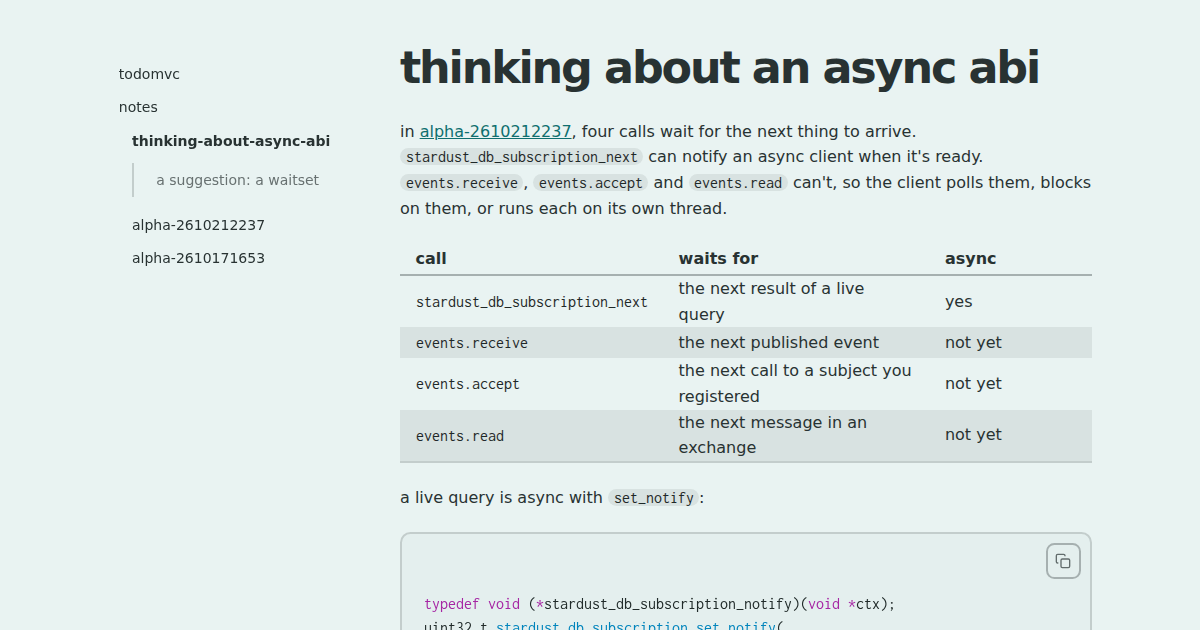
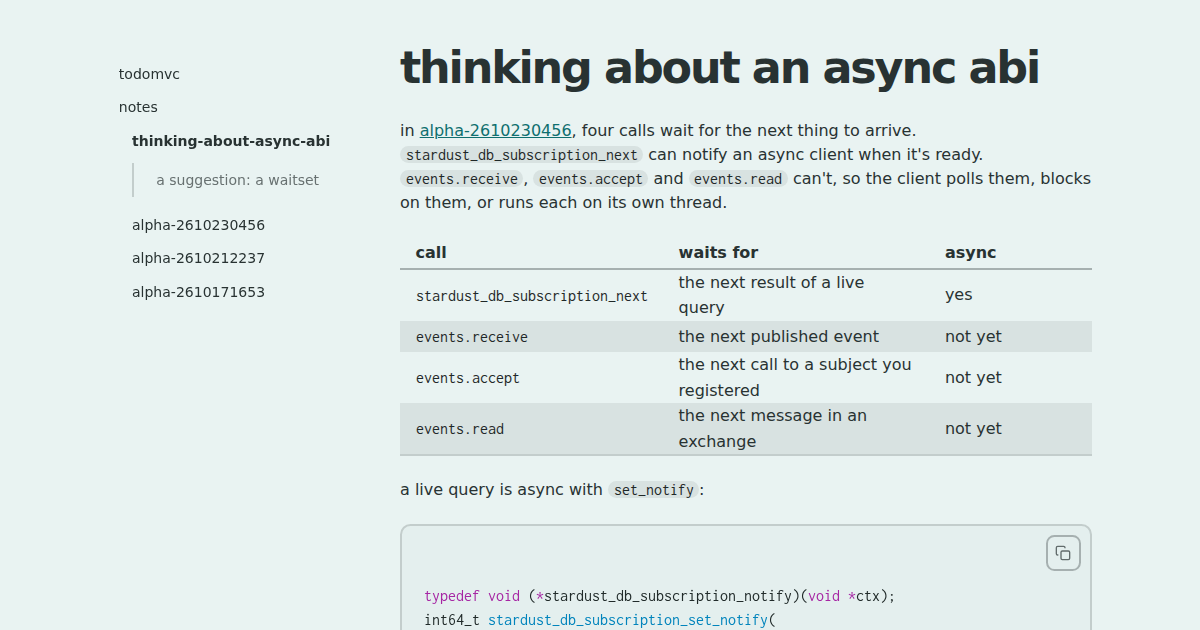
todomvc notes: the async abi note applies to alpha-2610230456
Nothing it says changed; its C uses the release's int64_t for every
number.

diff --git a/examples/todomvc/notes/thinking-about-async-abi/index.md b/examples/todomvc/notes/thinking-about-async-abi/index.md
@@ -1,10 +1,10 @@
 ---
-release: alpha-2610212237
+release: alpha-2610230456
 description: "brainstorming async notify for stardust"
 ---
 # thinking about an async abi
 
-in [alpha-2610212237](../alpha-2610212237/), four calls wait for the next thing to arrive. `stardust_db_subscription_next` can notify an async client when it's ready. `events.receive`, `events.accept` and `events.read` can't, so the client polls them, blocks on them, or runs each on its own thread.
+in [alpha-2610230456](../alpha-2610230456/), four calls wait for the next thing to arrive. `stardust_db_subscription_next` can notify an async client when it's ready. `events.receive`, `events.accept` and `events.read` can't, so the client polls them, blocks on them, or runs each on its own thread.
 
 | call | waits for | async |
 |---|:---|:---|
@@ -17,11 +17,11 @@ a live query is async with `set_notify`:
 
 ```c
 typedef void (*stardust_db_subscription_notify)(void *ctx);
-uint32_t stardust_db_subscription_set_notify(
+int64_t stardust_db_subscription_set_notify(
     stardust_db_subscription *sub,
     stardust_db_subscription_notify notify,
     void *ctx);
-uint32_t stardust_db_subscription_next(
+int64_t stardust_db_subscription_next(
     stardust_db_subscription *sub,
     int64_t max_wait_ticks,
     stardust_db_live_event *event);
@@ -39,23 +39,23 @@ this is a brainstorm. a waitset, like a small `epoll`, could make all four calls
 typedef struct stardust_db_waitset stardust_db_waitset;
 typedef void (*stardust_db_waitset_notify)(void *ctx);
 
-uint32_t stardust_db_waitset_open(
+int64_t stardust_db_waitset_open(
     stardust_db *db,
     stardust_db_waitset **out);
-uint32_t stardust_db_waitset_set_notify(
+int64_t stardust_db_waitset_set_notify(
     stardust_db_waitset *ws,
     stardust_db_waitset_notify notify,
     void *ctx);
-uint32_t stardust_db_waitset_add_subscription(
+int64_t stardust_db_waitset_add_subscription(
     stardust_db_waitset *ws,
     stardust_db_subscription *sub,
-    uint64_t token);
-uint32_t stardust_db_waitset_ready(
+    int64_t token);
+int64_t stardust_db_waitset_ready(
     stardust_db_waitset *ws,
     int64_t max_wait_ticks,
-    uint64_t *tokens,
-    size_t capacity,
-    size_t *count);
+    int64_t *tokens,
+    int64_t capacity,
+    int64_t *count);
 void stardust_db_waitset_release(stardust_db_waitset *ws);
 ```
 
